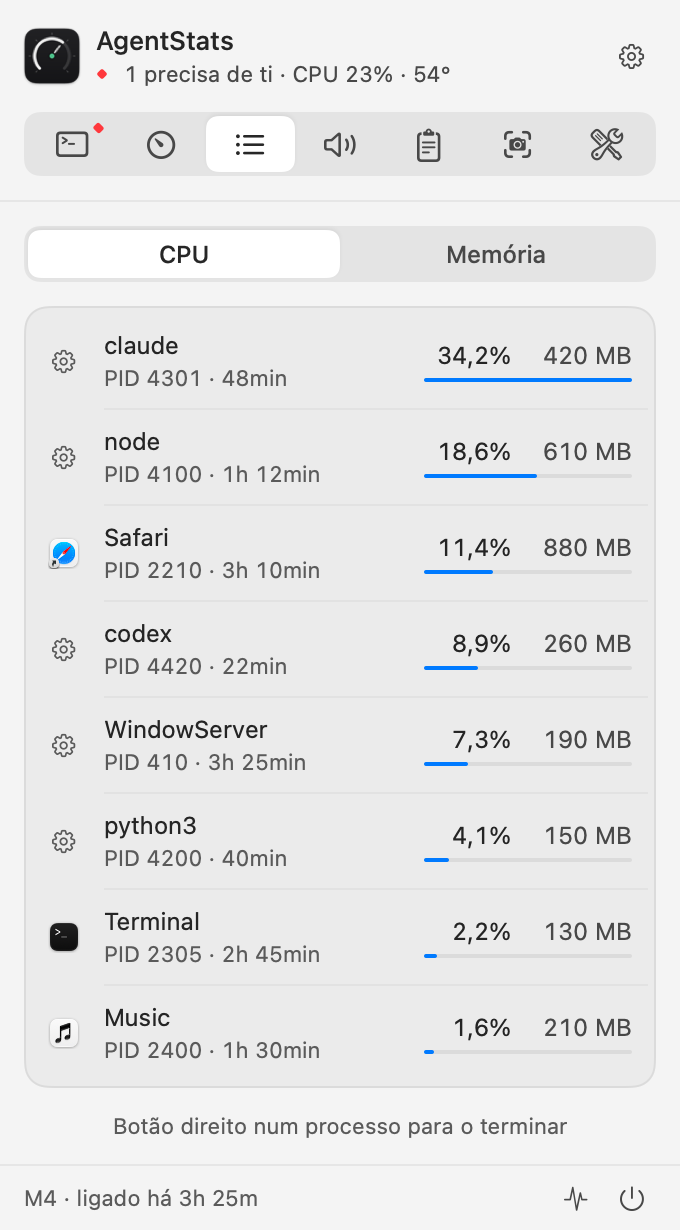
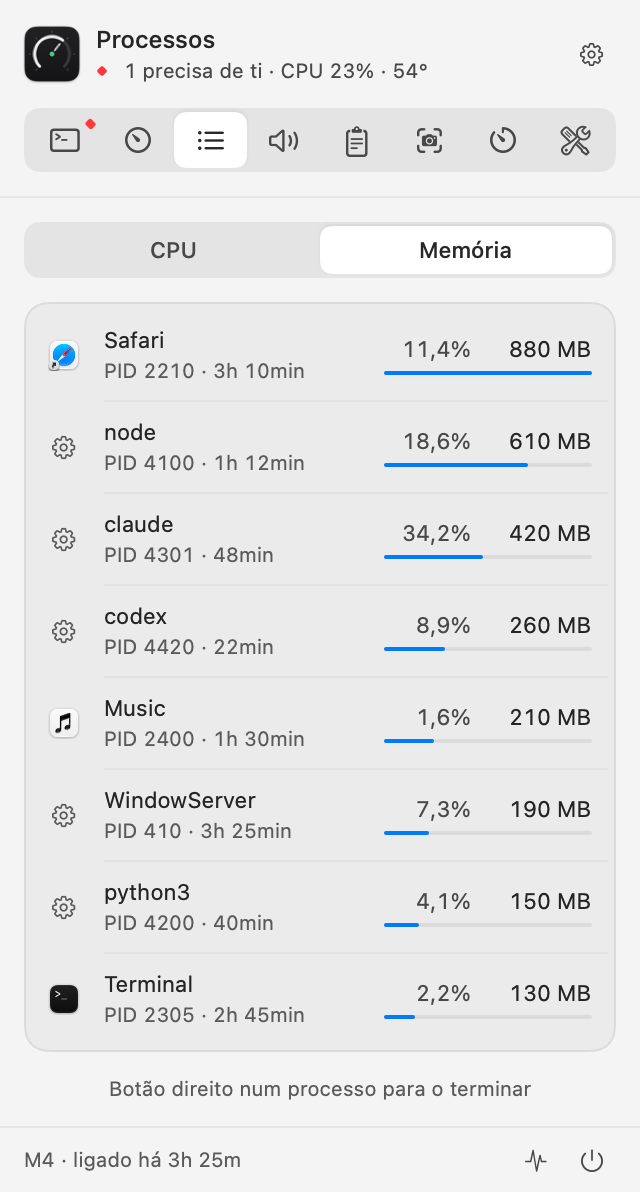
chore: release v1.19
- VERSION, READMEs e site em 1.19
- site: oito separadores, com o Tempo, e capturas novas

diff --git a/docs/index.html b/docs/index.html
@@ -51,7 +51,7 @@
       <div class="flex items-center gap-3">
         <img src="app-icon.png" alt="AgentStats Logo" class="w-8 h-8 rounded-lg shadow-md">
         <span class="font-semibold text-white tracking-tight text-lg">AgentStats</span>
-        <span class="text-xs px-2 py-0.5 rounded-full bg-white/10 text-neutral-300 font-mono">v1.18.1</span>
+        <span class="text-xs px-2 py-0.5 rounded-full bg-white/10 text-neutral-300 font-mono">v1.19</span>
       </div>
       <div class="flex items-center gap-4">
         <a href="#funcionalidades" class="text-sm text-neutral-400 hover:text-white transition hidden sm:inline">Funcionalidades</a>
@@ -114,7 +114,7 @@
     <section class="py-12 border-t border-b border-white/5 bg-graphite-900/40">
       <div class="max-w-6xl mx-auto px-4 sm:px-6">
         <div class="text-center mb-10">
-          <h2 class="text-2xl sm:text-3xl font-bold text-white tracking-tight">Sete separadores, um só painel.</h2>
+          <h2 class="text-2xl sm:text-3xl font-bold text-white tracking-tight">Oito separadores, um só painel.</h2>
           <p class="text-neutral-400 mt-2">Swift 6, macOS 14+ e Apple Silicon. Capturas com dados de demonstração.</p>
         </div>
 
@@ -126,6 +126,7 @@
           <button onclick="setTab('audio')" id="btn-audio" class="tab-btn px-4 py-2 rounded-lg text-sm font-medium text-neutral-400 hover:text-white transition">Áudio</button>
           <button onclick="setTab('clipboard')" id="btn-clipboard" class="tab-btn px-4 py-2 rounded-lg text-sm font-medium text-neutral-400 hover:text-white transition">Clipboard</button>
           <button onclick="setTab('capture')" id="btn-capture" class="tab-btn px-4 py-2 rounded-lg text-sm font-medium text-neutral-400 hover:text-white transition">Captura</button>
+          <button onclick="setTab('time')" id="btn-time" class="tab-btn px-4 py-2 rounded-lg text-sm font-medium text-neutral-400 hover:text-white transition">Tempo</button>
           <button onclick="setTab('tools')" id="btn-tools" class="tab-btn px-4 py-2 rounded-lg text-sm font-medium text-neutral-400 hover:text-white transition">Ferramentas</button>
           <button onclick="setTab('settings')" id="btn-settings" class="tab-btn px-4 py-2 rounded-lg text-sm font-medium text-neutral-400 hover:text-white transition">Definições</button>
         </div>

diff --git a/README.fr.md b/README.fr.md
@@ -182,8 +182,8 @@ AgentStats est distribué sous la [licence MIT](LICENSE). Vous pouvez utiliser, 
 La première fois seulement, le propriétaire du dépôt exécute `Scripts/setup-signing.sh` pour créer la clé de signature. Mettez ensuite à jour `VERSION`, puis envoyez un tag portant le même numéro, par exemple :
 
 ```bash
-git tag v1.18.1
-git push origin v1.18.1
+git tag v1.19
+git push origin v1.19
 ```
 
 GitHub Actions vérifie la version, exécute les tests, compile l’app et publie `AgentStats.zip` dans la release.

diff --git a/README.es.md b/README.es.md
@@ -182,8 +182,8 @@ AgentStats se distribuye bajo la [licencia MIT](LICENSE). Puedes usar, modificar
 Solo la primera vez, el propietario del repositorio ejecuta `Scripts/setup-signing.sh` para crear la clave de firma. Después actualiza `VERSION` y envía una etiqueta con la misma versión, por ejemplo:
 
 ```bash
-git tag v1.18.1
-git push origin v1.18.1
+git tag v1.19
+git push origin v1.19
 ```
 
 GitHub Actions comprueba la versión, ejecuta las pruebas, compila la app y publica `AgentStats.zip` en la versión.

diff --git a/README.md b/README.md
@@ -182,8 +182,8 @@ O AgentStats é distribuído sob a [licença MIT](LICENSE). Podes usar, modifica
 Só na primeira vez, o dono do repositório corre `Scripts/setup-signing.sh` para criar a chave de assinatura. Depois atualiza `VERSION` e envia uma tag com a mesma versão, por exemplo:
 
 ```bash
-git tag v1.18.1
-git push origin v1.18.1
+git tag v1.19
+git push origin v1.19
 ```
 
 O GitHub Actions valida a versão, executa os testes, compila a app e publica `AgentStats.zip` na release.

diff --git a/README.en.md b/README.en.md
@@ -182,8 +182,8 @@ AgentStats is distributed under the [MIT License](LICENSE). You may use, modify,
 The first time only, the repository owner runs `Scripts/setup-signing.sh` to create the signing key. Then update `VERSION` and push a tag with the same version, for example:
 
 ```bash
-git tag v1.18.1
-git push origin v1.18.1
+git tag v1.19
+git push origin v1.19
 ```
 
 GitHub Actions checks the version, runs the tests, builds the app, and publishes `AgentStats.zip` to the release.
